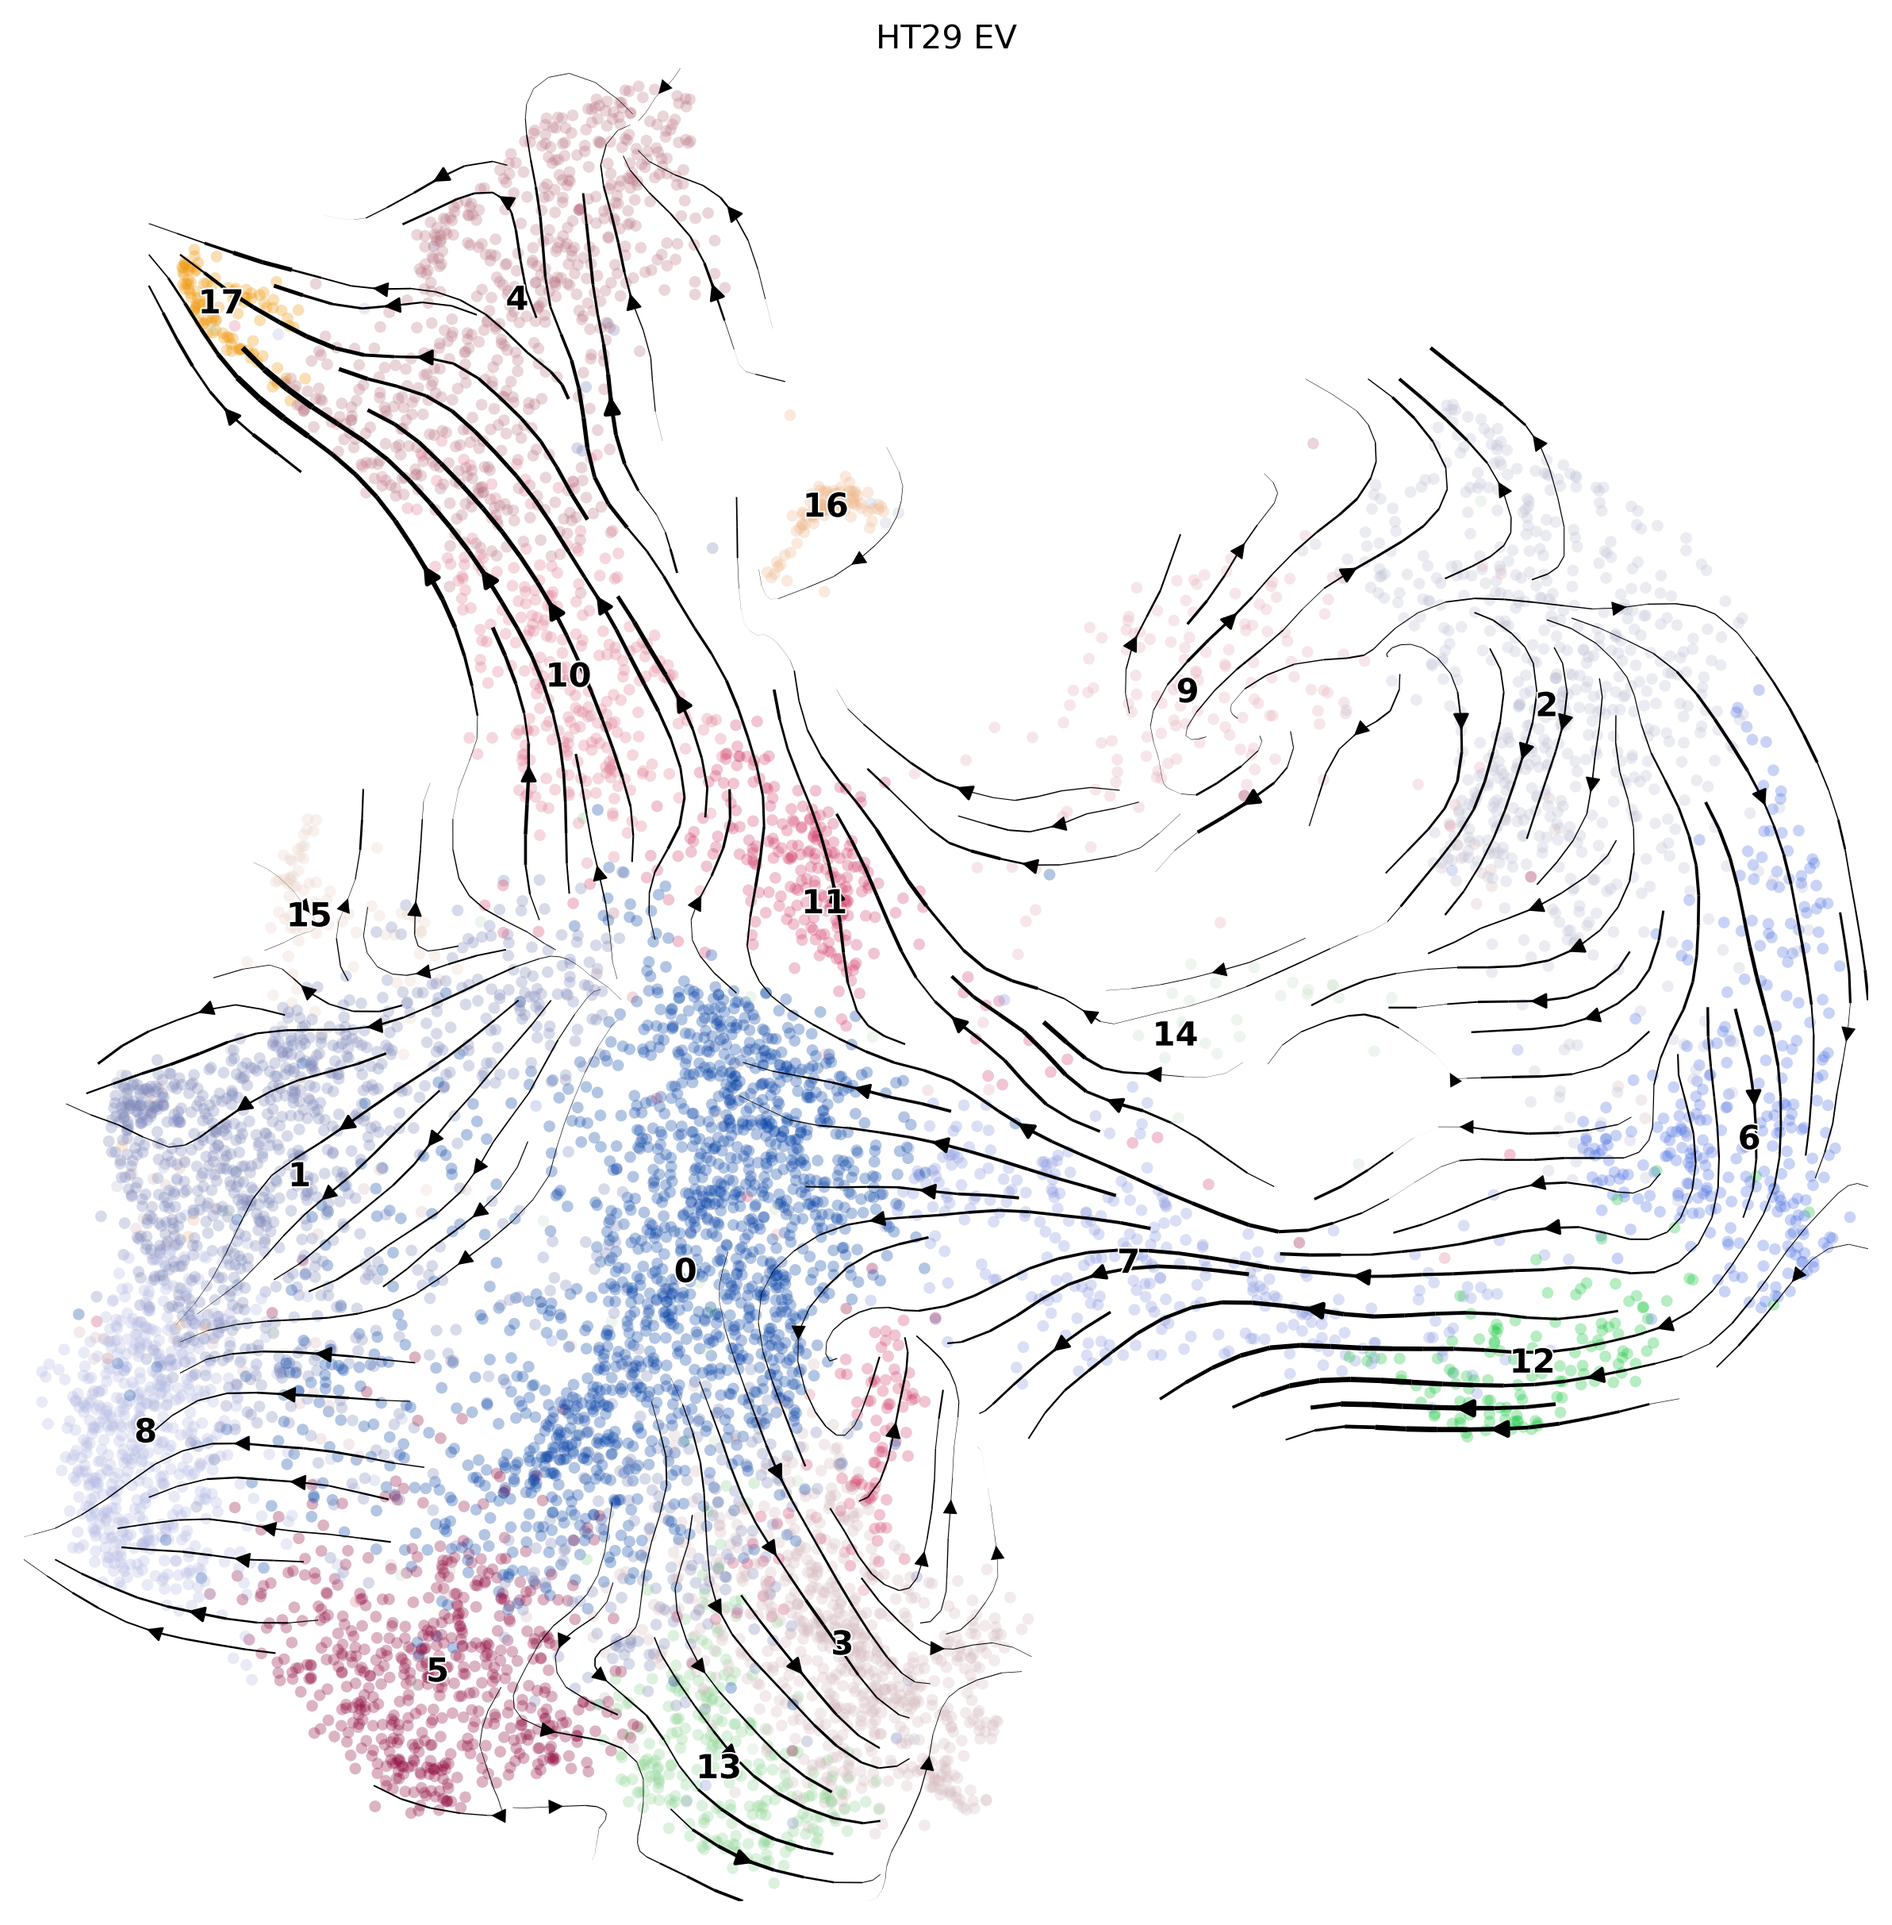
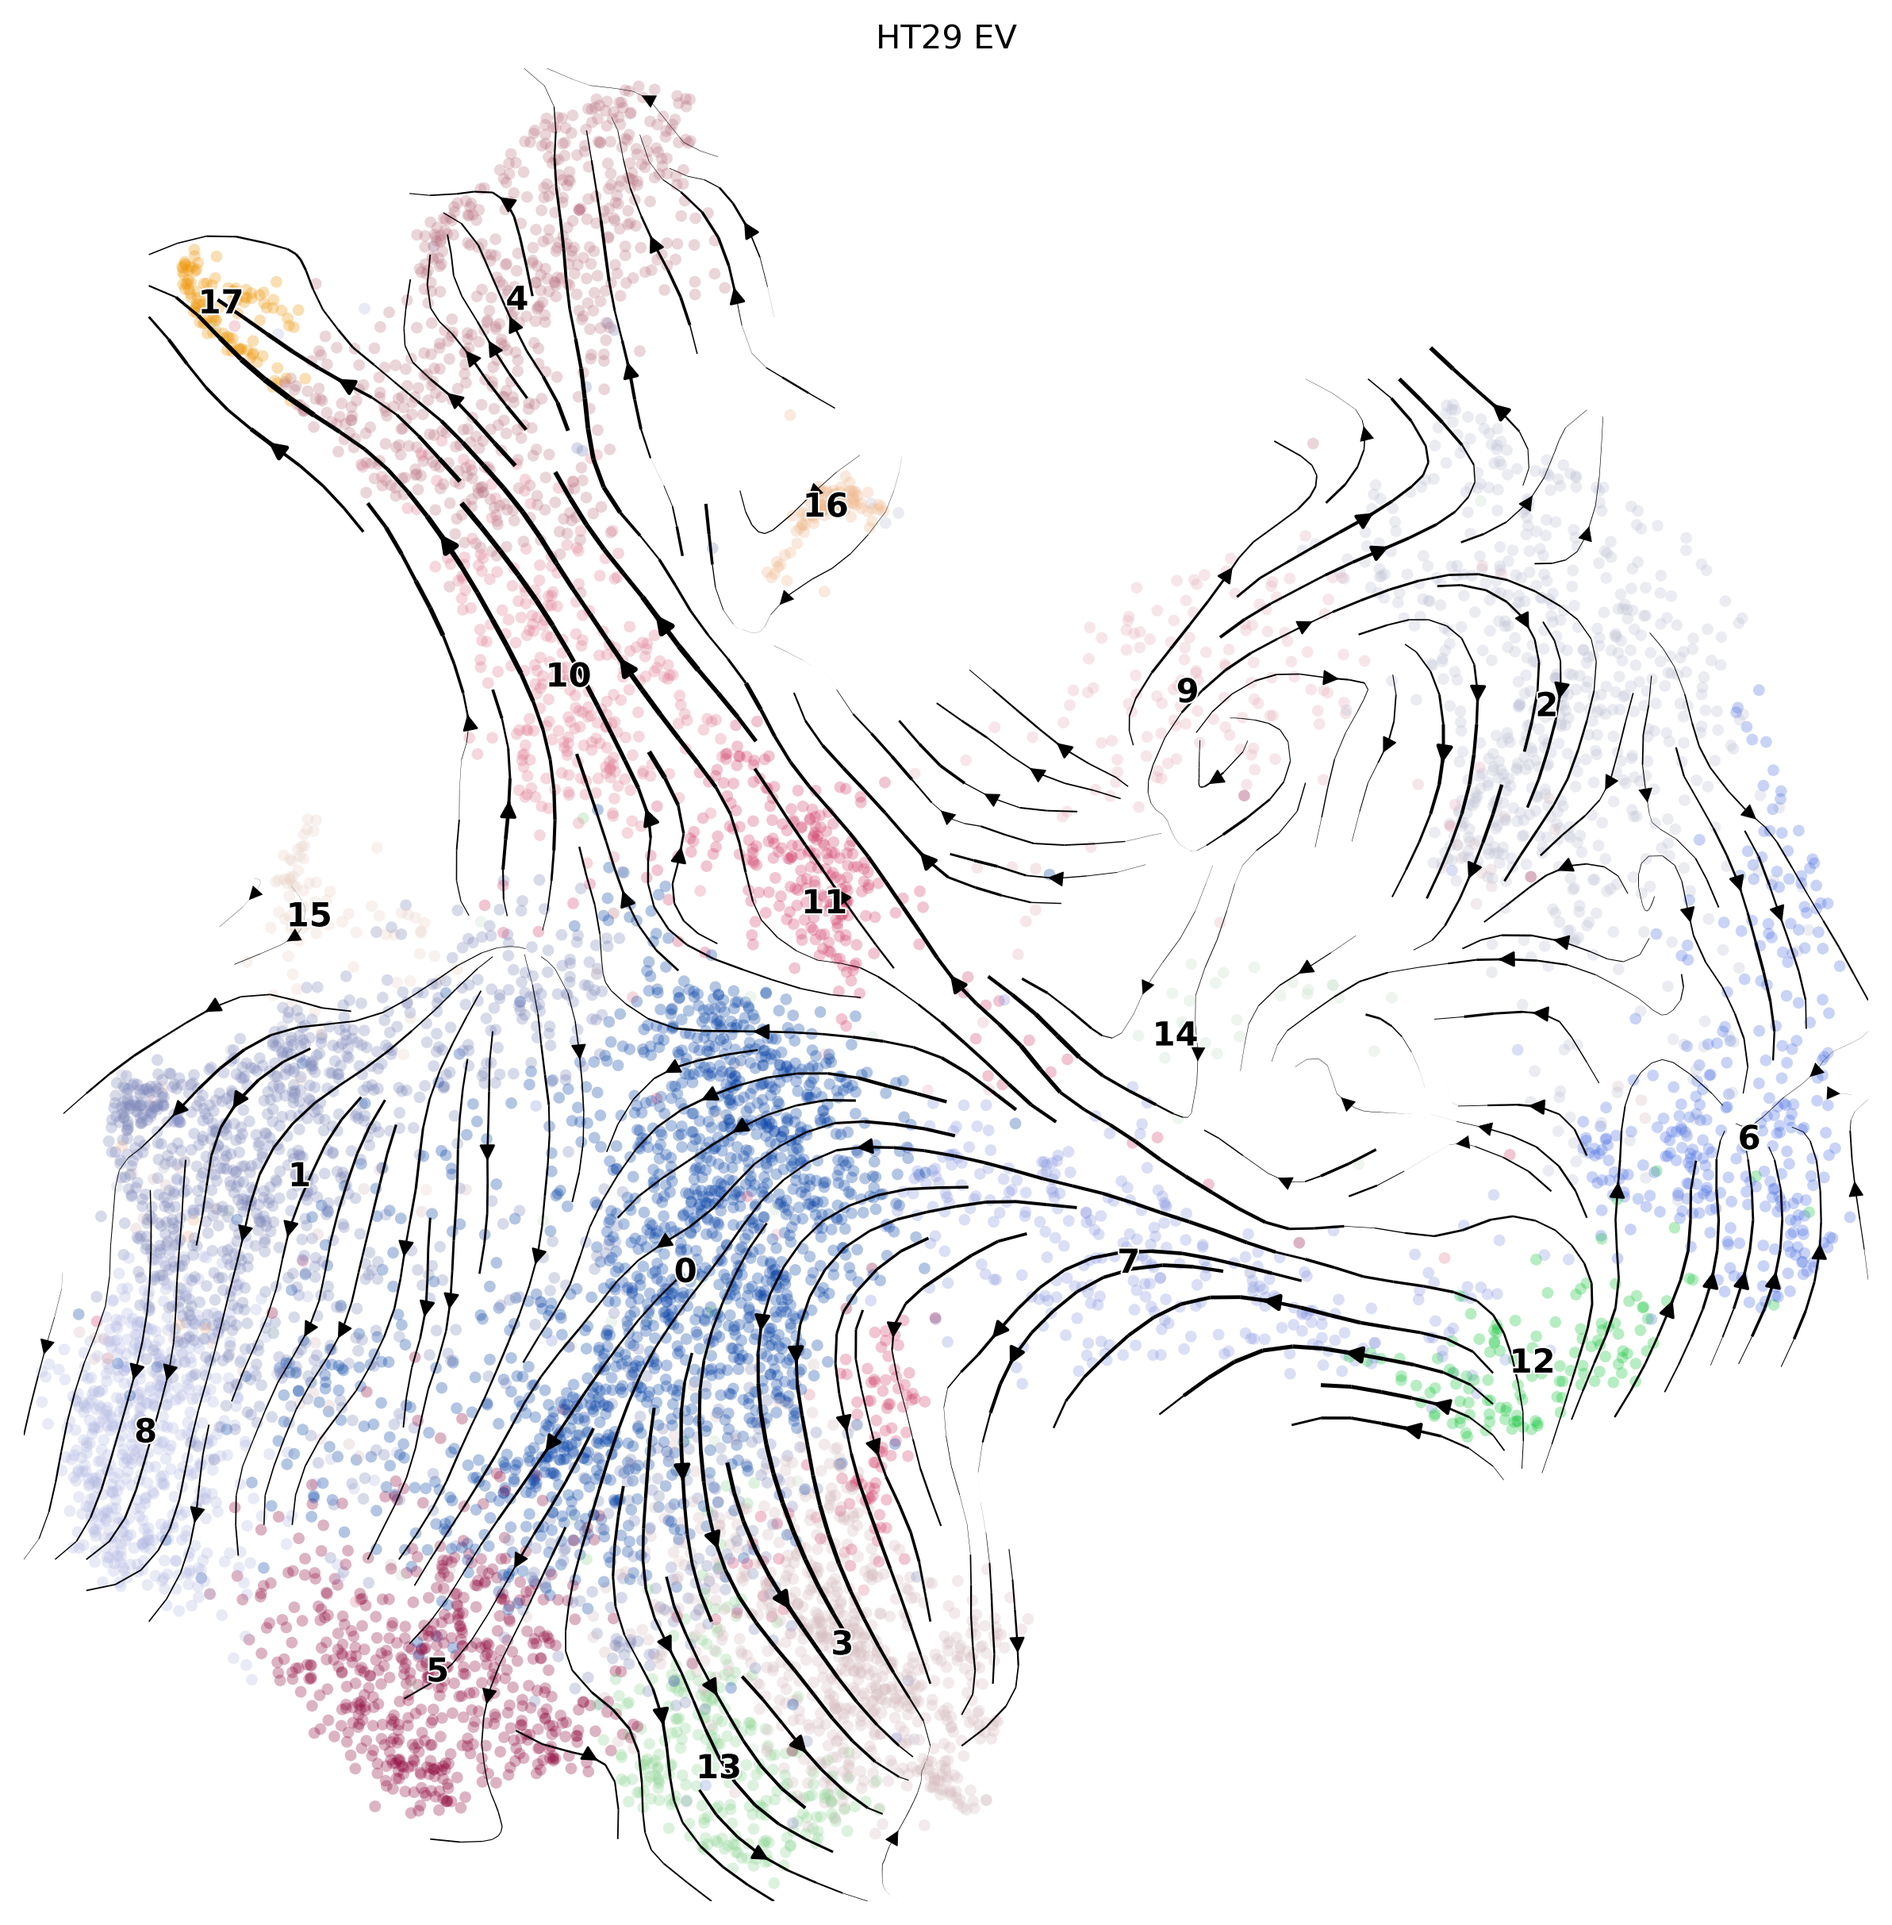
updating scVelo to use top 2000 genes instead of 3000

diff --git a/scripts/paga.py b/scripts/paga.py
@@ -55,7 +55,7 @@ for key in samples.keys():
 ## Preprocess the data.
 
 for key in samples.keys():
-	scv.pp.filter_and_normalize(samples[key], min_shared_counts=20, n_top_genes=3000)
+	scv.pp.filter_and_normalize(samples[key], min_shared_counts=20, n_top_genes=2000)
 	scv.pp.moments(samples[key], n_pcs=30, n_neighbors=30)
 
 ## Calculate RNA velocities.
@@ -89,7 +89,7 @@ for key,value in samples.items():
 	  figsize = (10, 10), size = 50, dpi = 300
 	)
 
-## Plot RNA velocity grids.
+## Plot RNA velocity arrows.
 
 outdir = 'results/trajectory/velocity/velocity_arrows'
 if not os.path.exists(outdir):
